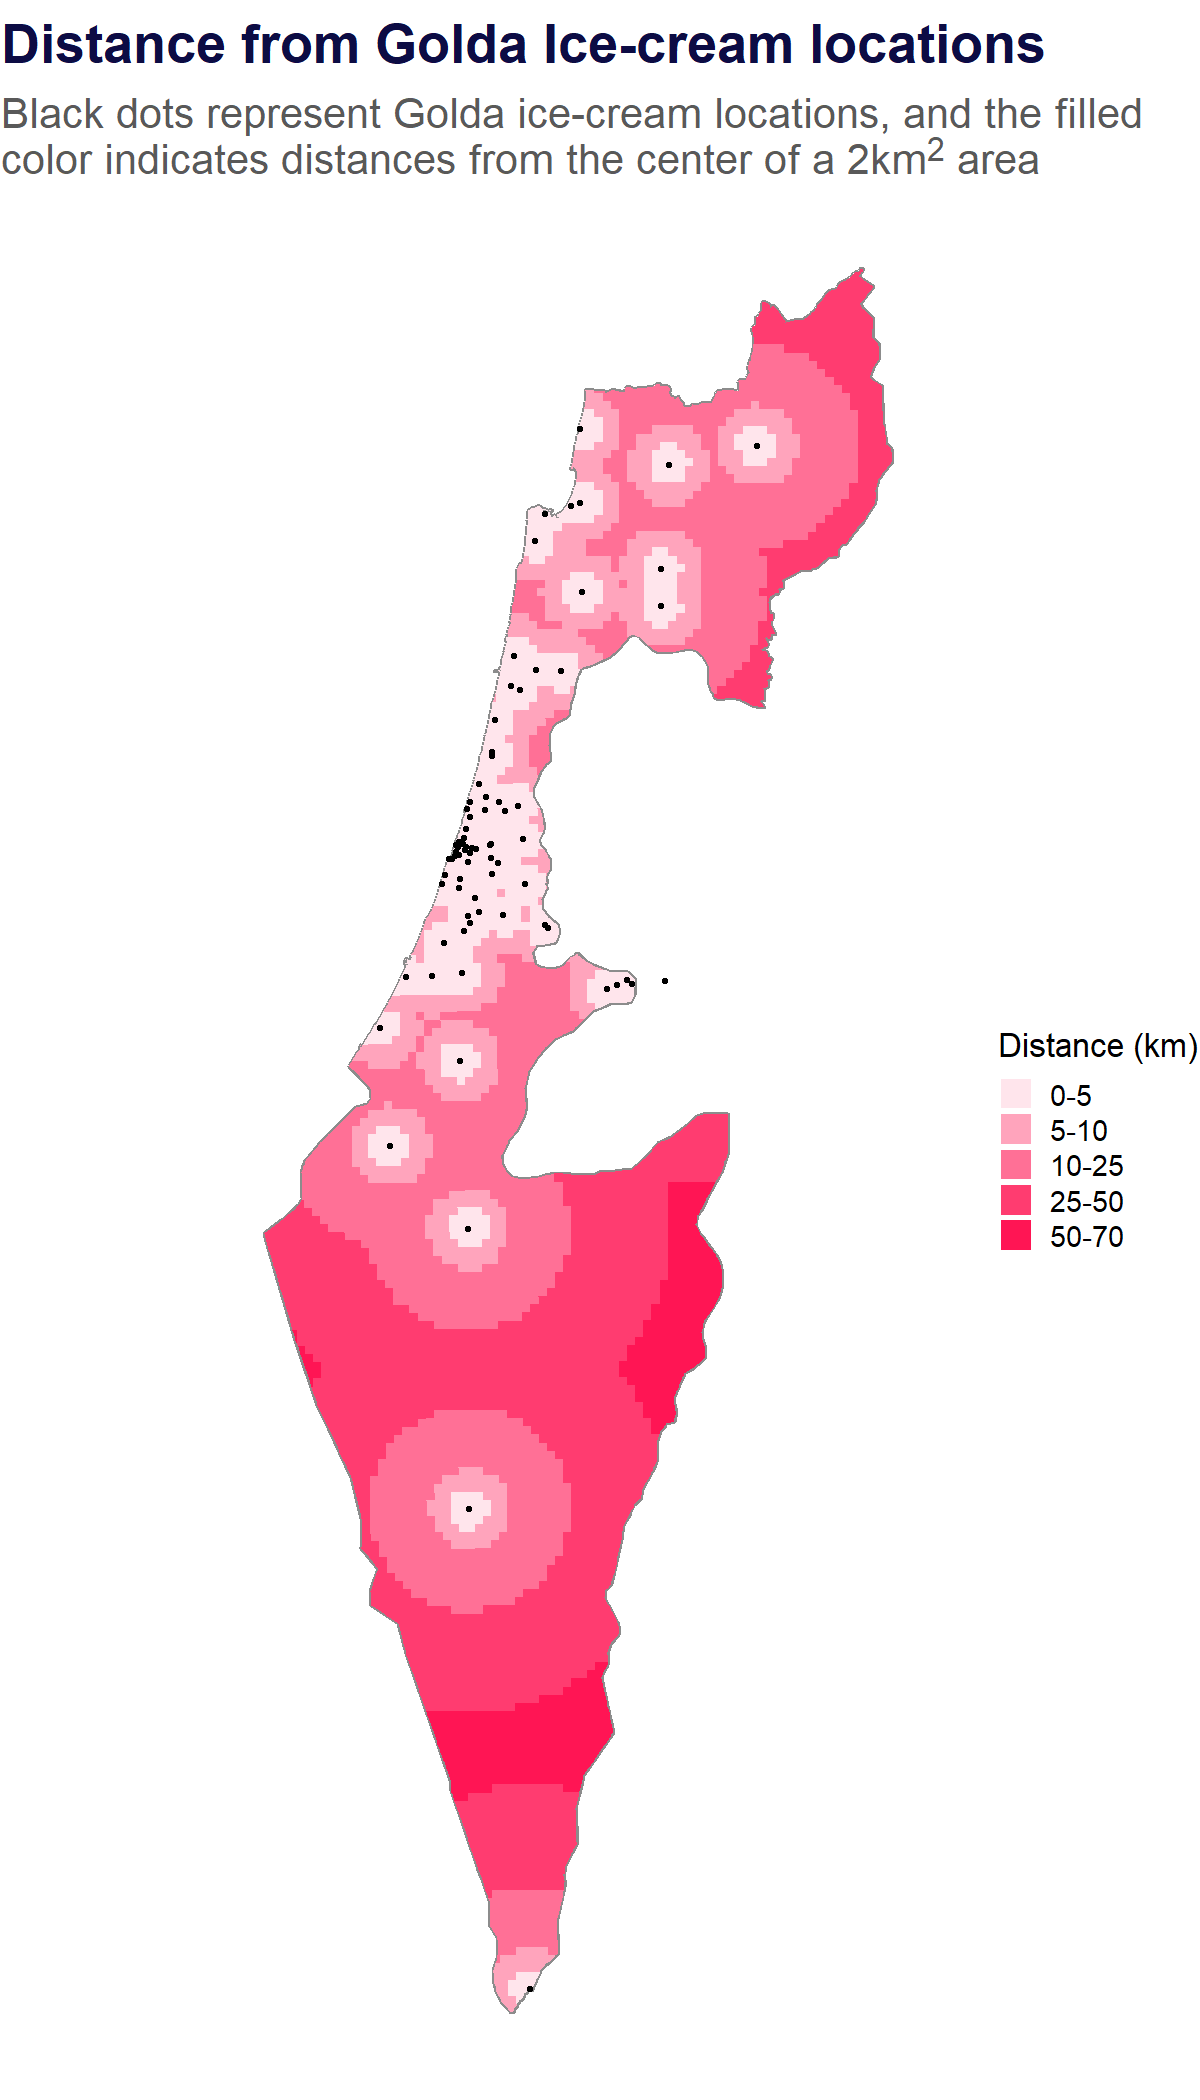
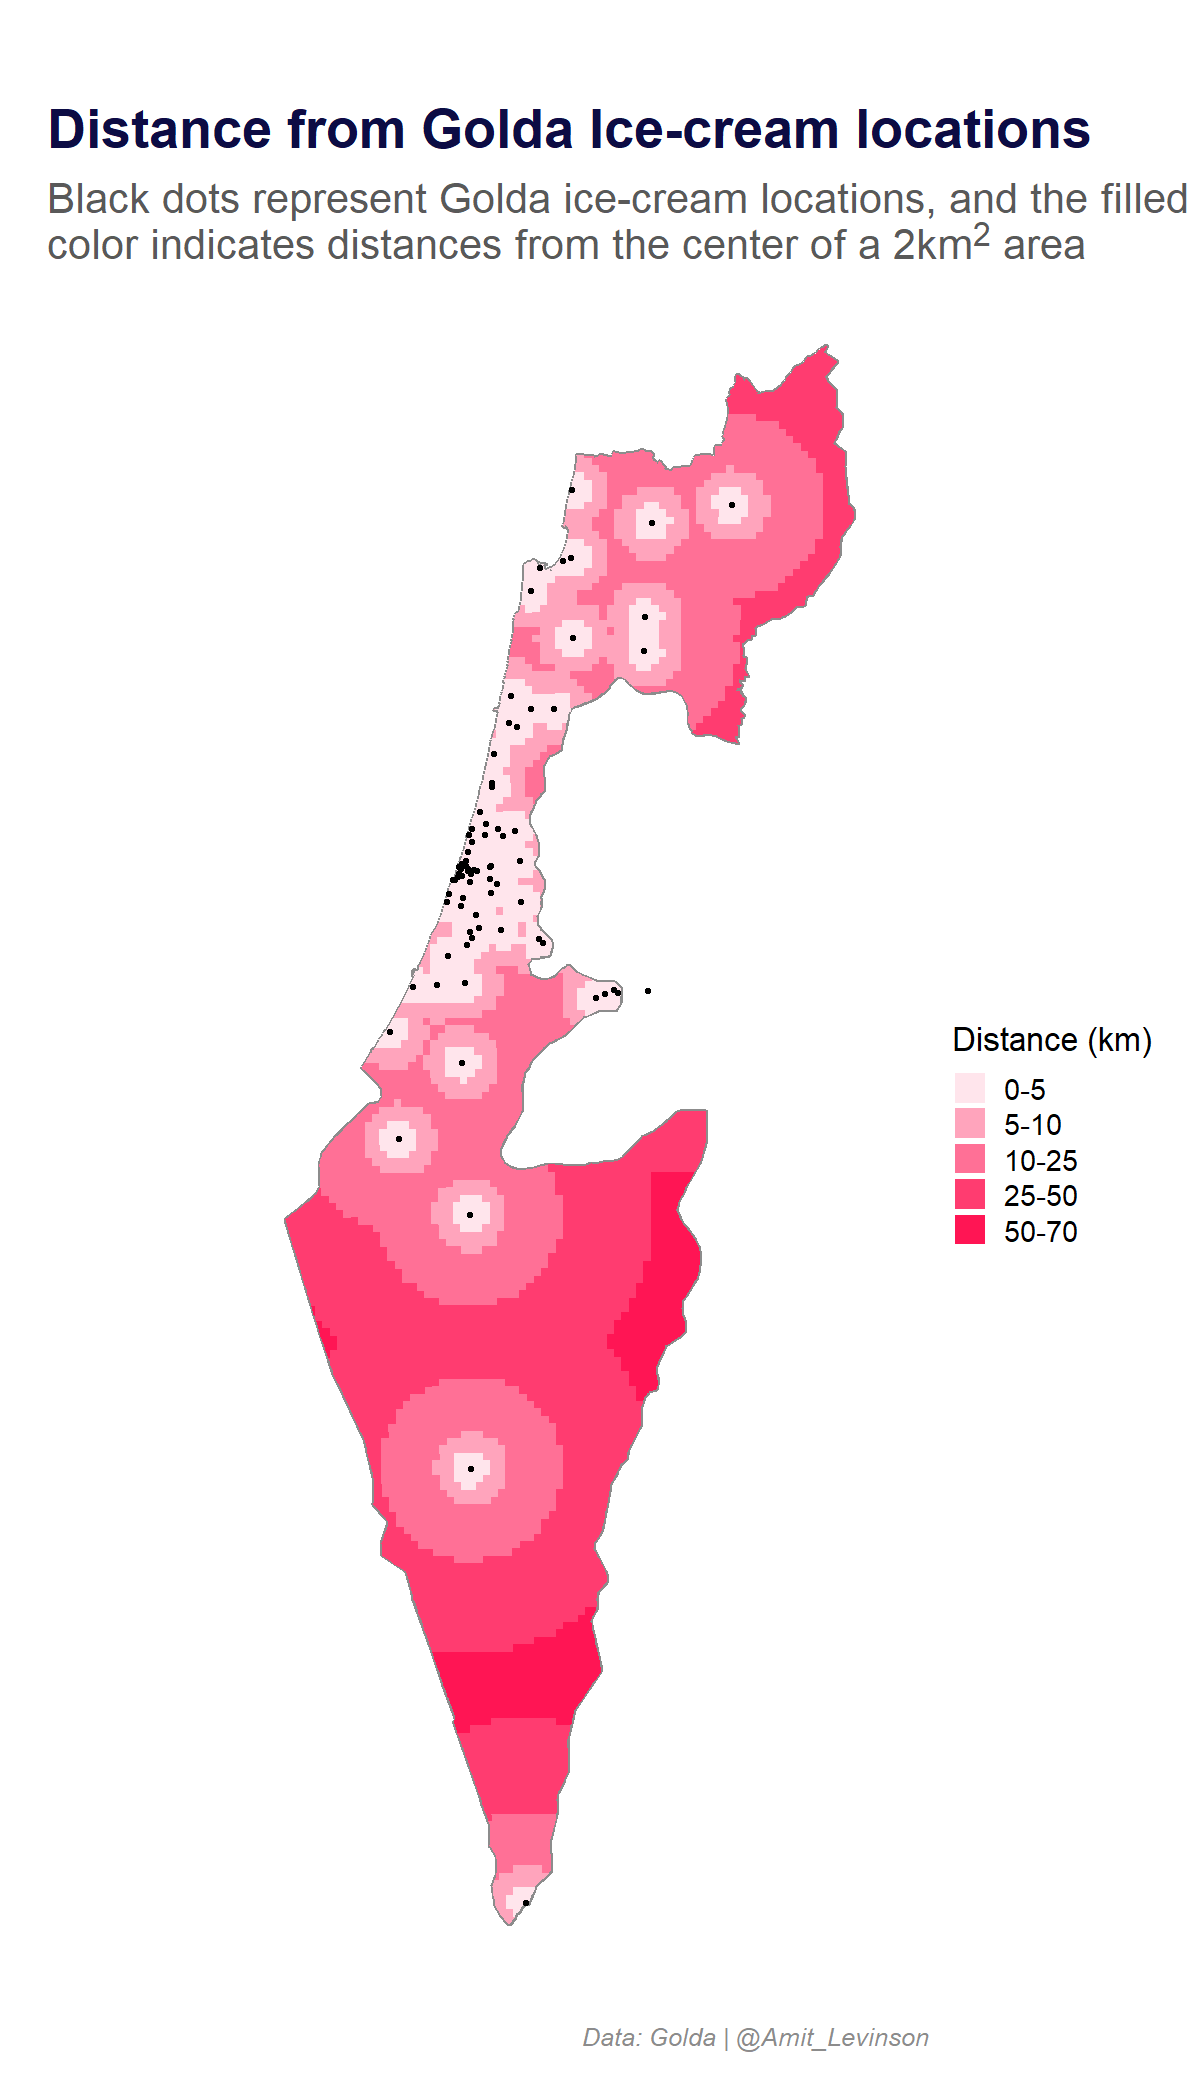
edit plot title pos and pub date!

diff --git a/content/post/ice-cream-locations/index.html b/content/post/ice-cream-locations/index.html
@@ -1,7 +1,7 @@
 ---
 title: Distances to Golda Ice-Cream Locations in Israel
 author: Amit Levinson
-date: '2021-02-07'
+date: '2021-02-10'
 slug: exploring-ice-cream-locations
 categories: []
 tags: [maps, rvest]
